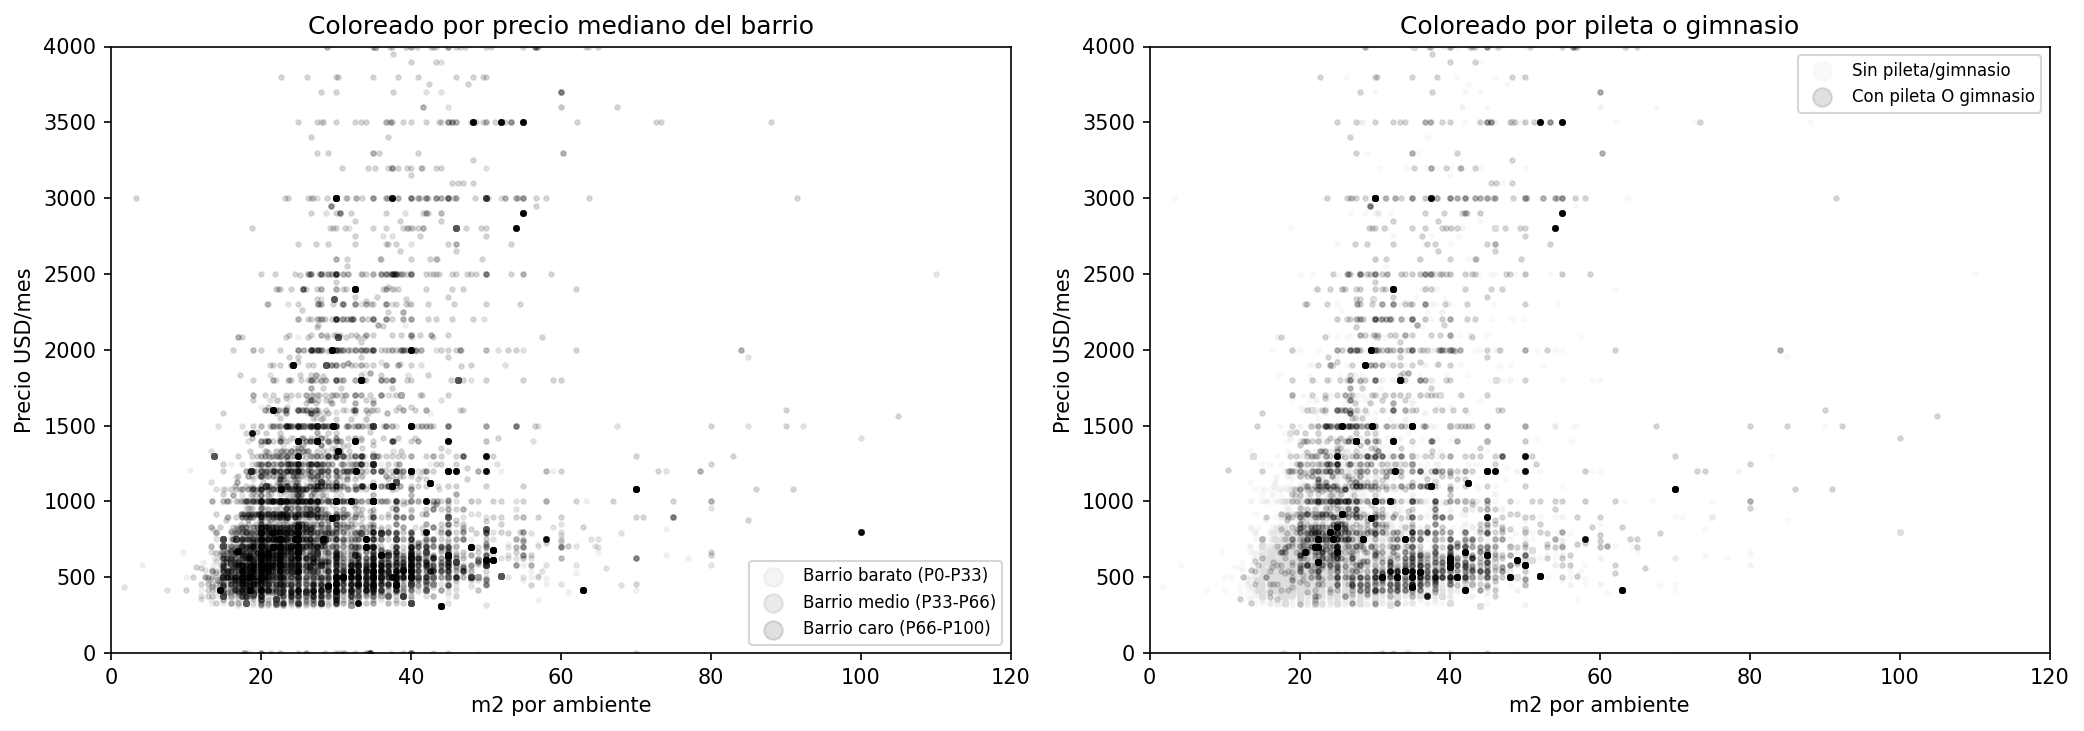
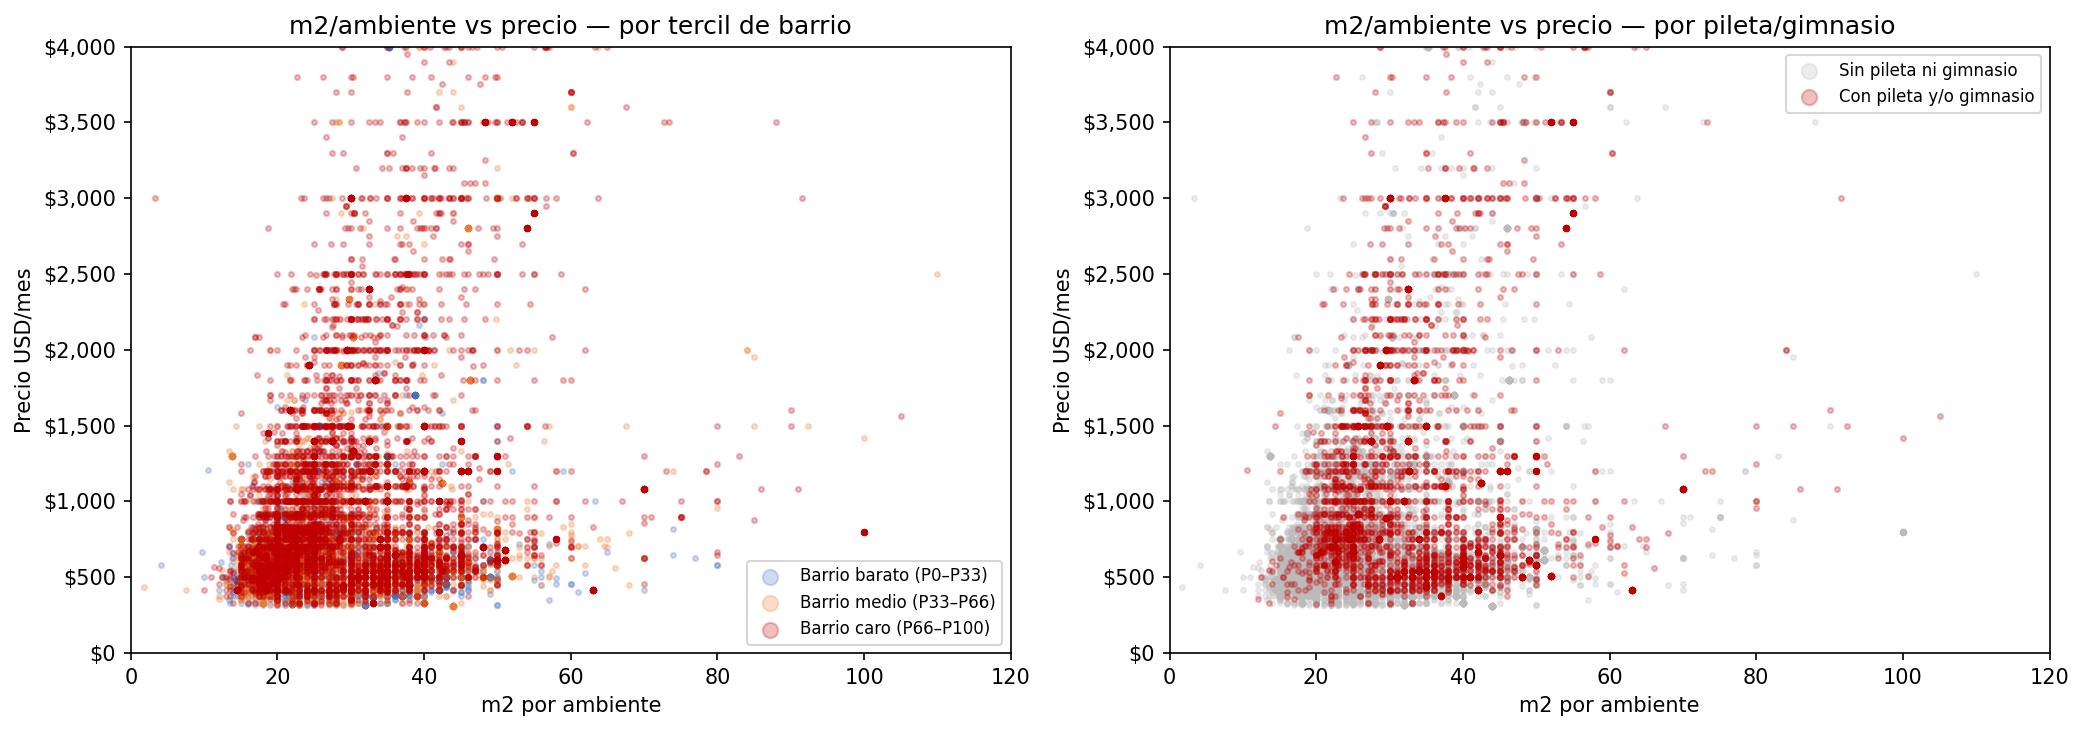
Improve EDA visualizations: colors and simplified co-occurrence
- graph 07: replace black/gray tercile colors with blue/orange/dark-red
- graph 02: reduce co-occurrence heatmap to building amenities only (9x9)

diff --git a/scripts/eda_viz.py b/scripts/eda_viz.py
@@ -91,7 +91,7 @@ def plot_correlation(df):
 # ── 2. Heatmap de co-ocurrencia de amenities ──────────────────────────────────
 
 def plot_amenity_coocurrence(df):
-    cols = [c for c in ALL_AMENITIES if c in df.columns]
+    cols = [c for c in AMENITY_EDIFICIO if c in df.columns]
     labels = [AMENITY_LABELS.get(c, c) for c in cols]
 
     # Frecuencia condicional: P(A | B) = prop con ambos / prop con B
@@ -274,6 +274,71 @@ def plot_amenity_delta(df):
     print(f"  Guardado: {out.name}")
 
 
+# ── 7. Dos mercados: m2/ambiente vs precio, coloreado por tercil de barrio ────
+
+def plot_dos_mercados(df):
+    medians = df.groupby("barrio")["price_ref_usd"].median()
+    p33, p66 = medians.quantile(0.33), medians.quantile(0.66)
+
+    def categoria(barrio):
+        med = medians.get(barrio, medians.median())
+        if med <= p33:  return "Barrio barato (P0–P33)"
+        if med <= p66:  return "Barrio medio (P33–P66)"
+        return "Barrio caro (P66–P100)"
+
+    df = df.copy()
+    df["cat_barrio"] = df["barrio"].map(categoria)
+
+    TERCIL_COLORS = {
+        "Barrio barato (P0–P33)":  "#4472C4",   # azul
+        "Barrio medio (P33–P66)":  "#ED7D31",   # naranja
+        "Barrio caro (P66–P100)":  "#C00000",   # rojo oscuro
+    }
+    AMENITY_COLORS = {
+        "Sin pileta ni gimnasio": "#BBBBBB",
+        "Con pileta y/o gimnasio": "#C00000",
+    }
+
+    fmt = mticker.FuncFormatter(lambda x, _: f"${x:,.0f}")
+    fig, axes = plt.subplots(1, 2, figsize=(14, 5))
+
+    # Panel izquierdo — por tercil de barrio
+    for cat, color in TERCIL_COLORS.items():
+        sub = df[df["cat_barrio"] == cat]
+        axes[0].scatter(sub["m2_por_ambiente"], sub["price_ref_usd"],
+                        alpha=0.25, s=6, color=color, label=cat, rasterized=True)
+    axes[0].set_xlabel("m2 por ambiente")
+    axes[0].set_ylabel("Precio USD/mes")
+    axes[0].set_title("m2/ambiente vs precio — por tercil de barrio")
+    axes[0].legend(markerscale=3, fontsize=8, framealpha=0.8)
+    axes[0].yaxis.set_major_formatter(fmt)
+    axes[0].set_xlim(0, 120)
+    axes[0].set_ylim(0, 4000)
+
+    # Panel derecho — por presencia de pileta/gimnasio
+    df["tiene_premium"] = ((df.get("pileta", 0) == 1) | (df.get("gimnasio", 0) == 1))
+    for label, mask, color in [
+        ("Sin pileta ni gimnasio",   ~df["tiene_premium"], "#BBBBBB"),
+        ("Con pileta y/o gimnasio",   df["tiene_premium"], "#C00000"),
+    ]:
+        sub = df[mask]
+        axes[1].scatter(sub["m2_por_ambiente"], sub["price_ref_usd"],
+                        alpha=0.25, s=6, color=color, label=label, rasterized=True)
+    axes[1].set_xlabel("m2 por ambiente")
+    axes[1].set_ylabel("Precio USD/mes")
+    axes[1].set_title("m2/ambiente vs precio — por pileta/gimnasio")
+    axes[1].legend(markerscale=3, fontsize=8, framealpha=0.8)
+    axes[1].yaxis.set_major_formatter(fmt)
+    axes[1].set_xlim(0, 120)
+    axes[1].set_ylim(0, 4000)
+
+    plt.tight_layout()
+    out = OUT_DIR / "07_m2amb_precio_coloreado.png"
+    plt.savefig(out, dpi=150, bbox_inches="tight")
+    plt.close()
+    print(f"  Guardado: {out.name}")
+
+
 def main():
     print("Cargando datos...")
     df = load()
@@ -286,6 +351,7 @@ def main():
     plot_scatter_m2_precio(df)
     plot_heatmap_amb_banos(df)
     plot_amenity_delta(df)
+    plot_dos_mercados(df)
 
     print(f"\nTodos los graficos en: {OUT_DIR}")
 